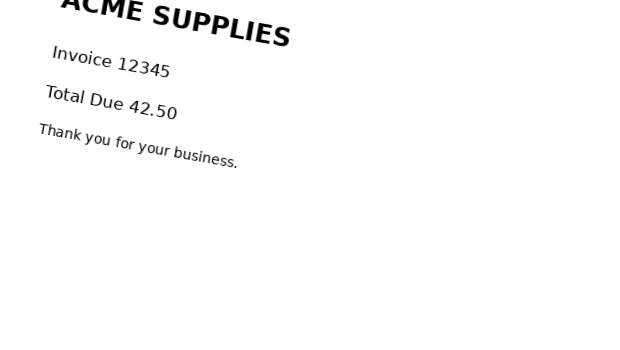
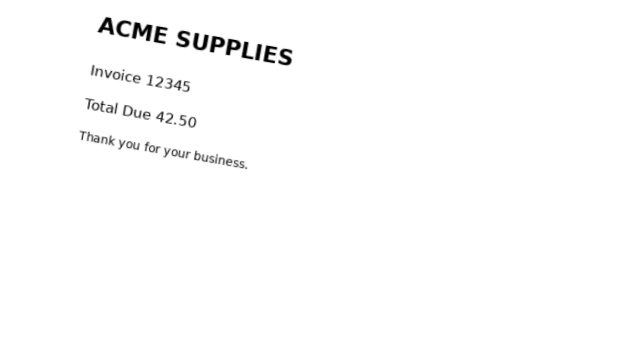
Keep the whole skewed scan in frame so deskew recovers all four lines [skip ci]
The fixture turned a page whose text already filled its frame, so the turn
carried the title out of the stored pixels and the test could only assert the
two lines that survived. The scan is now shrunk into a margin before the turn,
which keeps every line in the picture: as stored all four come back wrong
("ACME SUPPLigg", "IMvoice 12345", "Total Due 42 50", "TPMK You for your
business,") and with --ocr-deskew all four read, so the test asserts both sides
of the full page rather than half of it.

diff --git a/test-data/make_skewed_scan.py b/test-data/make_skewed_scan.py
@@ -1,19 +1,25 @@
 #!/usr/bin/env python3
 """Write `invoice_scan_skewed.png`: the scan, swept onto the platen at an angle.
 
-The page is `invoice_scan.png` turned ten degrees clockwise about its centre by
-Pillow, on a white background and the same 620 x 350, 150 dpi grid. Ten degrees
-is the angle the fixture was chosen at, measured: at four and six degrees
-Tesseract still reads the lines, at eight it loses two of them and at ten it
-reads nothing, so the page is one `--ocr-deskew` has something to prove on.
+The page is `invoice_scan.png` shrunk to 85 percent inside its 620 x 350, 150 dpi
+frame and then turned ten degrees clockwise about the frame's centre by Pillow,
+on a white background. The shrink is what keeps the whole page of text in the
+picture: the scan's title sits 34 pixels below the top edge, and a ten-degree
+turn about the centre carries that corner out of a frame the text already
+fills, so the stored pixels would lose the title itself. Shrunk first, every
+line stays inside the frame — the turned page's ink clears the edges by
+seventeen pixels at the top and more elsewhere — and the fixture is a page
+turned on a platen with margin around it, as a scan of a sheet smaller than the
+glass really is.
 
-It is the fixture the deskew estimator was validated against: the estimator
-reports ten degrees for it (9.75 on the quarter-degree grid), and the deskewed
-page reads the lines the turn left intact. Turning a page inside its own frame
-crops the title's top-left corner — the invoice's title sits 28 pixels below
-the top edge, which a ten-degree turn about the centre carries out of the page
-— so the title is clipped in the stored pixels and no turn can bring it back;
-the test asserts the two lines whose pixels survive.
+Ten degrees is the fixture's angle, and the pass is measured on it. Read as
+stored, every one of the four lines comes back wrong: `ACME SUPPLIES` as
+`ACME SUPPLigg`, `Invoice 12345` as `IMvoice 12345`, `Total Due 42.50` as
+`Total Due 42 50` and `Thank you for your business.` as
+`TPMK You for your business,`. Read with `--ocr-deskew`, all four come back
+exactly, which is what the test asserts. The turn is about the frame's centre
+and keeps the grid, so the recognised boxes are mapped back onto the scan's own
+297.6 x 168 points.
 
 Regenerate with:
 
@@ -28,6 +34,13 @@ HERE = Path(__file__).resolve().parent
 SOURCE = HERE / "invoice_scan.png"
 TARGET = HERE / "invoice_scan_skewed.png"
 
+#: How much of the frame the scan fills before it is turned. Chosen so the
+#: turned page keeps its whole text inside the frame: at 0.9 the title's corner
+#: clears the top edge by eight pixels, at 0.87 by fourteen, and at 0.85 by
+#: seventeen, while the text is still large enough for Tesseract to read it
+#: once the page is turned flat.
+SCALE = 0.85
+
 #: The turn, in degrees clockwise. `Image.rotate` turns anticlockwise, so the
 #: stored page runs downhill to the right, which is the sign the estimator
 #: reports as positive.
@@ -37,9 +50,19 @@ DEGREES = 10
 def main() -> None:
     with Image.open(SOURCE) as source:
         page = source.convert("L")
-    # Bilinear: the turn is a resampling, as a scanner's would be, so the
-    # estimator is not handed edges no scanner could produce.
-    turned = page.rotate(-DEGREES, resample=Image.BILINEAR, fillcolor=255)
+    width, height = page.size
+
+    # The scan inside a margin: the page scaled down and placed at the centre of
+    # the frame it was scanned in. Bilinear, as a scanner's resampling is.
+    shrunk = page.resize(
+        (round(width * SCALE), round(height * SCALE)), Image.BILINEAR
+    )
+    framed = Image.new("L", (width, height), 255)
+    framed.paste(shrunk, ((width - shrunk.width) // 2, (height - shrunk.height) // 2))
+
+    # Bilinear again: the turn is a resampling too, so the estimator is not
+    # handed edges no scanner could produce.
+    turned = framed.rotate(-DEGREES, resample=Image.BILINEAR, fillcolor=255)
     turned.save(TARGET, dpi=(150, 150))
     print(f"wrote {TARGET} ({TARGET.stat().st_size} bytes)")
 

diff --git a/crates/cli/tests/cli_test.rs b/crates/cli/tests/cli_test.rs
@@ -1997,11 +1997,12 @@ fn a_rotated_scan_is_read_upright() {
 }
 
 /// A page swept onto the platen at an angle: `invoice_scan_skewed.png` is the
-/// scan turned ten degrees clockwise (`make_skewed_scan.py`), the angle at
-/// which Tesseract's lines stop lining up. Read as stored, the invoice and
-/// total lines come back mangled; `--ocr-deskew` measures the tilt, turns the
-/// page flat and reads both. The turn is about the centre and keeps the grid,
-/// so the boxes are mapped back through it and still land inside the page.
+/// scan shrunk into a margin and turned ten degrees clockwise
+/// (`make_skewed_scan.py`), the angle at which Tesseract's lines stop lining
+/// up. Read as stored, all four lines come back wrong; `--ocr-deskew` measures
+/// the tilt, turns the page flat and reads every one of them. The turn is about
+/// the centre and keeps the grid, so the boxes are mapped back through it and
+/// still land inside the page.
 #[test]
 #[cfg_attr(
     not(feature = "ocr"),
@@ -2042,9 +2043,15 @@ fn a_skewed_scan_is_turned_flat_and_read() {
     let (_, skewed) = recognised("skewed", false);
     let (flat, straightened) = recognised("straightened", true);
 
-    // The tilt is what costs these lines, and turning the page flat is what
-    // brings them back: as stored they read "IMvoice 12345" and "42 59".
-    for phrase in ["Invoice 12345", "Total Due 42.50"] {
+    // The tilt is what costs every line, and turning the page flat is what
+    // brings them back: as stored they read "ACME SUPPLigg", "IMvoice 12345",
+    // "Total Due 42 50" and "TPMK You for your business,".
+    for phrase in [
+        "ACME SUPPLIES",
+        "Invoice 12345",
+        "Total Due 42.50",
+        "Thank you for your business.",
+    ] {
         assert!(
             !skewed.contains(phrase),
             "the fixture no longer costs {phrase:?} without the turn, so it measures \

diff --git a/progress.md b/progress.md
@@ -789,11 +789,16 @@ and two repository gates were already red.
   images and a picture handed in) map the recognised boxes back through the
   turn before scaling them onto the page.
 - **The fixture.** `invoice_scan_skewed.png` (`make_skewed_scan.py`) is the
-  scan turned ten degrees, where Tesseract's lines stop lining up: as stored
-  `Invoice 12345` and `Total Due 42.50` come back mangled (`IMvoice 12345`,
-  `42 59`), and the estimator's 9.75 degrees turns them flat and reads both.
-  The turn crops the title's corner, as a page not centred on the platen does,
-  so the test asserts the two lines the pixels keep rather than all four.
+  scan shrunk to 85 percent inside its frame and then turned ten degrees about
+  the frame's centre. The shrink is what keeps the whole page in the picture:
+  a ten-degree turn about a frame the text already fills carries the title's
+  corner out of it, which is how the first version of the fixture lost a line.
+  Turned inside its margin the page loses nothing — the ink clears the top edge
+  by seventeen pixels and the rest by more — and the estimator's 9.75 degrees
+  (still, on the shrunk page) turns it flat and reads all four lines. As
+  stored every line is wrong (`ACME SUPPLigg`, `IMvoice 12345`,
+  `Total Due 42 50`, `TPMK You for your business,`), so the test asserts all
+  four are lost before the turn and all four read after it.
 - **Checks.** ocr-engine preprocess tests 7 passed (three new); `cli_test` 144
   passed; `documentation_test` 4 passed with the suite at 1,377; workspace
   clippy `-D warnings` and `cargo fmt --all --check` clean.

diff --git a/plan.md b/plan.md
@@ -371,10 +371,10 @@ runs (`y - t*x`) reads the tilt: on the real scan turned 2, 4 and 6 degrees and 
 returned exactly those angles, and zero on the upright page. The estimate is acted on
 only from half a degree up, so a straight page is never resampled; the turn is about the
 centre on the same grid, and the boxes are mapped back through it. `invoice_scan_skewed.png`
-(`make_skewed_scan.py`, ten degrees, where Tesseract's lines stop lining up) holds it: as
-stored `Invoice 12345` and `Total Due 42.50` come back mangled, and turned flat both
-read. The turn crops the title's corner, as a page not centred on the platen really does,
-so the test asserts the two lines the pixels keep.
+(`make_skewed_scan.py`: the scan shrunk to 85 percent inside its frame, then turned ten
+degrees about the centre) holds it: turned inside its margin the page loses nothing, and
+as stored every line comes back wrong (`ACME SUPPLigg`, `IMvoice 12345`, `Total Due 42 50`,
+`TPMK You for your business,`) where the turn reads all four.
 
 **3 — the fax fixture measures the pass.** `fax_scan.png` is the scan with two percent of
 its pixels replaced — salt on paper, pepper inside the ink — placed by a fixed generator so

diff --git a/README.md b/README.md
@@ -1394,8 +1394,8 @@ test-data/
 │                                            #   noise (make_fax_scan.py)
 ├── vector_text.pdf                          # text drawn only as paths: no font, no text
 │                                            #   operator, no image (make_vector_text_pdf.py)
-├── invoice_scan_skewed.png                  # the scan turned ten degrees clockwise
-│                                            #   (make_skewed_scan.py)
+├── invoice_scan_skewed.png                  # the scan shrunk into a margin and turned
+│                                            #   ten degrees clockwise (make_skewed_scan.py)
 ├── ccitt_scan.pdf, ccitt_g3_2d_scan.pdf      # the same scan in CCITT G3/G4
 │                                            #   and G3 two-dimensional
 ├── jbig2_scan.pdf                           # the same scan in JBIG2
